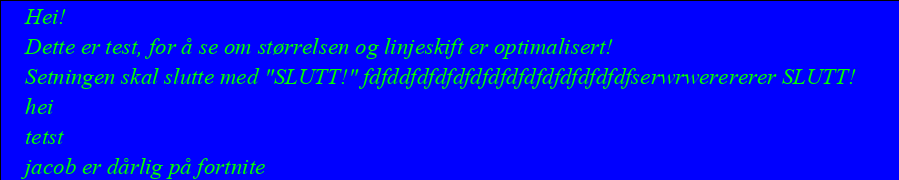
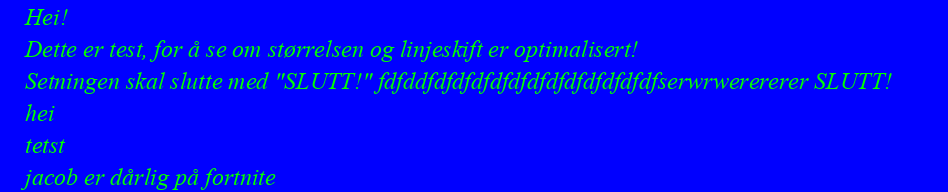
Added split by number & refactoring
Added split by number. 
Need to do more test, because it only read 1 line. 
Refactor comments and codes.

diff --git a/spill_1/TextToImage/src/TextImage.java b/spill_1/TextToImage/src/TextImage.java
@@ -15,7 +15,7 @@ public class TextImage {
     //Method that create bufferedImage
     public static BufferedImage make(Color bgColor, Color tColor, int tSize, String...textrows)
     {
-        //BufferedImage
+        //BufferedImage helper.
         BufferedImage helperImg = new BufferedImage(20, 20, BufferedImage.TYPE_INT_RGB);
         //Create the image with G2D
         Graphics2D g2d = helperImg.createGraphics();
@@ -31,18 +31,20 @@ public class TextImage {
                 longestText = row+100;
             }
         }
-        //Width behind the text
+
         int width = fm.stringWidth(longestText + 10);
         int height = fm.getHeight()*textrows.length;
         g2d.dispose();
 
-
+        //Final image, the image we going to see.
         BufferedImage finalImg = new BufferedImage(width, height, BufferedImage.TYPE_INT_RGB);
         g2d = finalImg.createGraphics();
-        //Bakgrunn farge
+        //Background color.
         g2d.setColor(bgColor);
-        //Yrtre kantene på venstre og toppen
-        g2d.fillRect(1, 1, width, height);
+        //Rectangle fill.
+        g2d.fillRect(0, 0, width, height);
+
+        //Rendering and image quality.
         g2d.setRenderingHint(RenderingHints.KEY_ALPHA_INTERPOLATION, RenderingHints.VALUE_ALPHA_INTERPOLATION_QUALITY);
         g2d.setRenderingHint(RenderingHints.KEY_ANTIALIASING, RenderingHints.VALUE_ANTIALIAS_ON);
         g2d.setRenderingHint(RenderingHints.KEY_COLOR_RENDERING, RenderingHints.VALUE_COLOR_RENDER_QUALITY);
@@ -54,9 +56,7 @@ public class TextImage {
         g2d.setFont(font);
         fm = g2d.getFontMetrics();
 
-
-
-        //Text Color
+        //Text Color.
         g2d.setColor(tColor);
         int y = fm.getAscent();
         for(String row: textrows)
@@ -73,8 +73,12 @@ public class TextImage {
     //Method Create file need: bgcolor, text color, and text size
     public static void createFile(Color bg, Color txt, int tSize) throws IOException {
         try {
-            String[] data = readFile("../TextInput/Test1.txt");
-            System.out.println(Arrays.toString(data));
+            //Read file from path and split it by \n
+            String[] data = readFile();
+
+            //Split it again by the number of character
+            String[] data2 = splitByNumber("test");
+
         //Text for the file
         BufferedImage bi = make(bg, txt, tSize,data);
         File newFile;
@@ -101,13 +105,28 @@ public class TextImage {
     }
 
     //ReadFrom textFile and use the data as a String[] for creating picture
-    public static String[] readFile(String fileName)throws Exception {
-        String data = new String(Files.readAllBytes(Paths.get(fileName)));
+    public static String[] readFile()throws Exception {
+        String data = new String(Files.readAllBytes(Paths.get("../TextInput/Test1.txt")));
         //Spilt string and add lineshift
         String[] dataSplit = data.split("\n");
+//        int size = 5;
+//        String[] numSplit = (size < 1 || data == null) ? null : data.split("(?<=\\G.{" + size + "})");
+        System.out.println(Arrays.toString(dataSplit));
         return dataSplit;
     }
 
+    //Split string after certain numbers.
+    public static String[] splitByNumber(String test) throws IOException {
+        int size = 6;
+        String[] numSplit = (size < 1 || test == null) ? null : test.split("(?<=\\G.{" + size + "})");
+        System.out.println(Arrays.toString(numSplit));
+
+        return numSplit;
+
+    }
+
+
+    //Resize and scaling method.
     public static BufferedImage resize(String inputImagePath, String outputImagePath, int scaledWidth, int scaledHeight, File newFile) throws IOException{
         //read input image
         File inputFile = new File(inputImagePath);
@@ -133,7 +152,7 @@ public class TextImage {
 
 
     public static void main(String[] args) throws Exception {
-        createFile(blue, green, 23);
+        createFile(blue, green, 24);
     }
 
 
